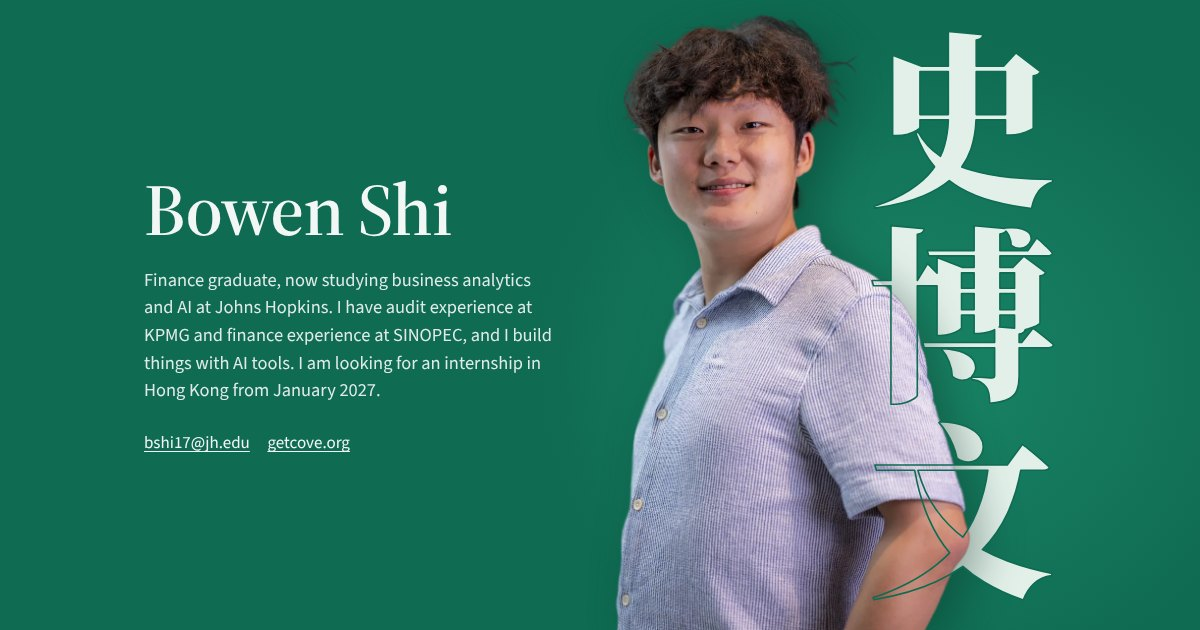
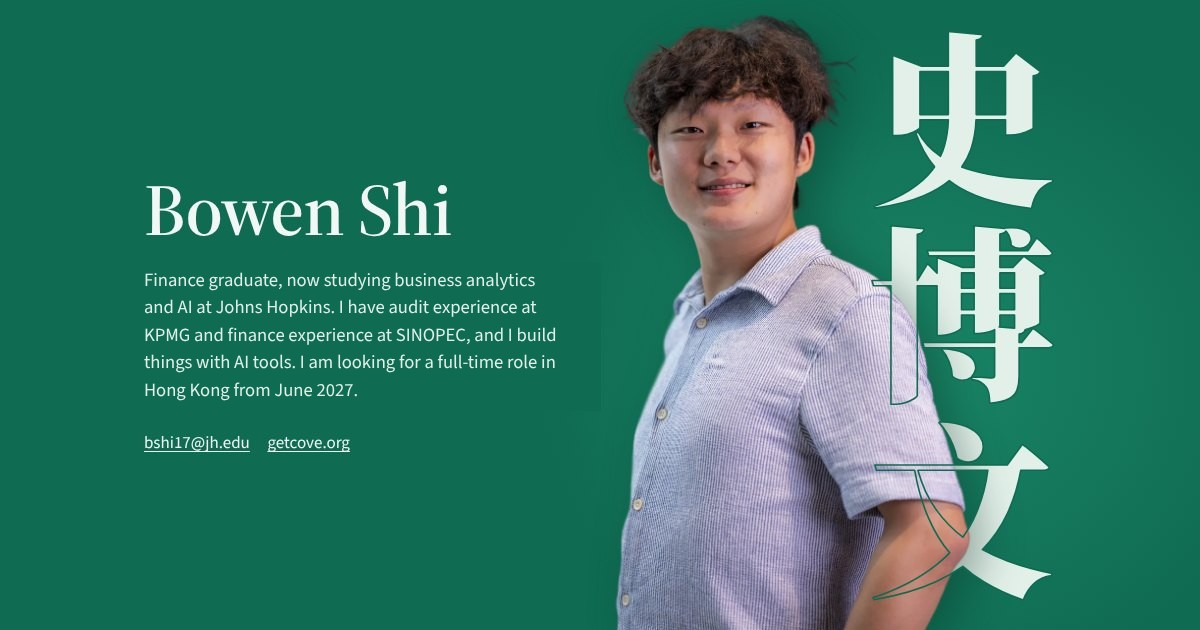
Update résumé page for full-time search: graduating Aug 2027, available from June 2027
Claude-Session: https://claude.ai/code/session_01TS5D1XsuNivpEpuTuspMha

Changed region(s): [[0.1233, 0.4222, 0.4625, 0.6333]]

diff --git a/index.html b/index.html
@@ -4,11 +4,11 @@
 <meta charset="utf-8">
 <meta name="viewport" content="width=device-width, initial-scale=1">
 <title>Bowen Shi Résumé</title>
-<meta name="description" content="Bowen Shi 史博文. Finance graduate studying business analytics and AI at Johns Hopkins, with internships at KPMG and SINOPEC. Looking for an internship in Hong Kong from January 2027.">
+<meta name="description" content="Bowen Shi 史博文. Finance graduate studying business analytics and AI at Johns Hopkins, with internships at KPMG and SINOPEC. Looking for a full-time role in Hong Kong from June 2027.">
 <meta name="robots" content="noindex">
 <meta property="og:type" content="profile">
 <meta property="og:title" content="Bowen Shi 史博文">
-<meta property="og:description" content="Finance graduate studying business analytics and AI at Johns Hopkins. Looking for an internship in Hong Kong from January 2027.">
+<meta property="og:description" content="Finance graduate studying business analytics and AI at Johns Hopkins. Looking for a full-time role in Hong Kong from June 2027.">
 <meta property="og:url" content="https://steven95923.github.io/">
 <meta property="og:image" content="https://steven95923.github.io/og.jpg">
 <meta property="og:image:width" content="1200">
@@ -273,8 +273,8 @@ html[data-lang="zh"] .closing-line { font-family: var(--font-body); line-height:
     <div class="lockup">
       <div class="intro">
         <h1>Bowen Shi<span class="visually-hidden" lang="zh-Hans"> 史博文</span></h1>
-        <p class="lede en">Finance graduate, now studying business analytics and AI at Johns Hopkins. I have audit experience at KPMG and finance experience at SINOPEC, and I build things with AI tools. I am looking for an internship in Hong Kong from January 2027.</p>
-        <p class="lede zh" lang="zh-Hans">金融本科毕业，现在约翰斯·霍普金斯大学读商业分析与人工智能硕士。在毕马威做过审计实习，在中石化做过财务实习，平时用 AI 工具做东西。正在找 2027 年 1 月起在香港的实习。</p>
+        <p class="lede en">Finance graduate, now studying business analytics and AI at Johns Hopkins. I have audit experience at KPMG and finance experience at SINOPEC, and I build things with AI tools. I am looking for a full-time role in Hong Kong from June 2027.</p>
+        <p class="lede zh" lang="zh-Hans">金融本科毕业，现在约翰斯·霍普金斯大学读商业分析与人工智能硕士。在毕马威做过审计实习，在中石化做过财务实习，平时用 AI 工具做东西。正在找香港的全职工作，2027 年 6 月起可到岗。</p>
         <p class="contact">
           <a class="email" href="mailto:bshi17@jh.edu">bshi17@jh.edu</a>
           <button type="button" class="copy">
@@ -335,7 +335,7 @@ html[data-lang="zh"] .closing-line { font-family: var(--font-body); line-height:
       <li>
         <span class="yr">2027</span>
         <span class="city"><span class="en">Hong Kong</span><span class="zh" lang="zh-Hans">香港</span></span>
-        <span class="what"><span class="en">Internship wanted, full-time from January</span><span class="zh" lang="zh-Hans">求实习，1 月起可全职</span></span>
+        <span class="what"><span class="en">Full-time role wanted, available from June</span><span class="zh" lang="zh-Hans">求全职，6 月起可到岗</span></span>
       </li>
     </ol>
   </section>
@@ -344,13 +344,13 @@ html[data-lang="zh"] .closing-line { font-family: var(--font-body); line-height:
     <h2 id="h-facts"><span class="en">Key facts</span><span class="zh" lang="zh-Hans">关键信息</span></h2>
     <dl class="facts">
       <dt><span class="en">Studying</span><span class="zh" lang="zh-Hans">在读</span></dt>
-      <dd><span class="en">MS in Business Analytics and Artificial Intelligence, Johns Hopkins Carey Business School. GPA 4.0/4.0, graduating August 2028.</span><span class="zh" lang="zh-Hans">约翰斯·霍普金斯大学凯瑞商学院，商业分析与人工智能理学硕士。GPA 4.0/4.0，预计 2028 年 8 月毕业。</span></dd>
+      <dd><span class="en">MS in Business Analytics and Artificial Intelligence, Johns Hopkins Carey Business School. GPA 4.0/4.0, graduating August 2027.</span><span class="zh" lang="zh-Hans">约翰斯·霍普金斯大学凯瑞商学院，商业分析与人工智能理学硕士。GPA 4.0/4.0，预计 2027 年 8 月毕业。</span></dd>
       <dt><span class="en">Graduated</span><span class="zh" lang="zh-Hans">本科</span></dt>
       <dd><span class="en">BBA (Hons) in Finance, First Class Honours, Beijing Normal–Hong Kong Baptist University, 2026.</span><span class="zh" lang="zh-Hans">北师香港浸会大学，金融学一等荣誉学士，2026 年毕业。</span></dd>
       <dt><span class="en">Interned at</span><span class="zh" lang="zh-Hans">实习</span></dt>
       <dd><span class="en">KPMG (audit), SINOPEC (finance), Mission Hills (marketing).</span><span class="zh" lang="zh-Hans">毕马威（审计）、中石化（财务）、观澜湖（市场）。</span></dd>
-      <dt><span class="en">Available</span><span class="zh" lang="zh-Hans">可实习时间</span></dt>
-      <dd><span class="en">Hong Kong, full-time, January to June 2027.</span><span class="zh" lang="zh-Hans">香港，全职，2027 年 1 月至 6 月。</span></dd>
+      <dt><span class="en">Available</span><span class="zh" lang="zh-Hans">到岗时间</span></dt>
+      <dd><span class="en">Hong Kong, full-time, from June 2027.</span><span class="zh" lang="zh-Hans">香港，全职，2027 年 6 月起。</span></dd>
       <dt><span class="en">Languages</span><span class="zh" lang="zh-Hans">语言</span></dt>
       <dd><span class="en">Mandarin (native), English (fluent, IELTS 7.0), Cantonese (proficient).</span><span class="zh" lang="zh-Hans">普通话（母语）、英语（流利，雅思 7.0）、粤语（熟练）。</span></dd>
       <dt><span class="en">Certificates</span><span class="zh" lang="zh-Hans">证书</span></dt>
@@ -451,7 +451,7 @@ html[data-lang="zh"] .closing-line { font-family: var(--font-body); line-height:
       <article class="entry">
         <div class="entry-head">
           <h3><span class="en">Johns Hopkins Carey Business School</span><span class="zh" lang="zh-Hans">约翰斯·霍普金斯大学凯瑞商学院</span></h3>
-          <p class="when"><span class="en">Aug 2026 – Aug 2028 (expected)</span><span class="zh" lang="zh-Hans">2026.08 – 2028.08（预计）</span></p>
+          <p class="when"><span class="en">Aug 2026 – Aug 2027 (expected)</span><span class="zh" lang="zh-Hans">2026.08 – 2027.08（预计）</span></p>
         </div>
         <p class="role"><span class="en">MS in Business Analytics and Artificial Intelligence, GPA 4.0/4.0, Washington, DC</span><span class="zh" lang="zh-Hans">商业分析与人工智能理学硕士，GPA 4.0/4.0，华盛顿</span></p>
         <p class="note"><span class="en">Coursework: Data Analytics (regression modeling in R), Statistical Analysis, Python for Data Analysis, Financial Decisions and Investment Analysis.</span><span class="zh" lang="zh-Hans">相关课程：数据分析（R 语言回归建模）、统计分析、Python 数据分析、金融决策与投资分析。</span></p>
@@ -567,7 +567,7 @@ html[data-lang="zh"] .closing-line { font-family: var(--font-body); line-height:
 
 <footer class="closing">
   <div class="wrap">
-    <p class="closing-line"><span class="en">I am looking for an internship in Hong Kong, full-time from January to June 2027.</span><span class="zh" lang="zh-Hans">正在找香港的实习，2027 年 1 月至 6 月可全职。</span></p>
+    <p class="closing-line"><span class="en">I am looking for a full-time role in Hong Kong, available from June 2027.</span><span class="zh" lang="zh-Hans">正在找香港的全职工作，2027 年 6 月起可到岗。</span></p>
     <p class="contact">
       <a class="email" href="mailto:bshi17@jh.edu">bshi17@jh.edu</a>
       <button type="button" class="copy">
